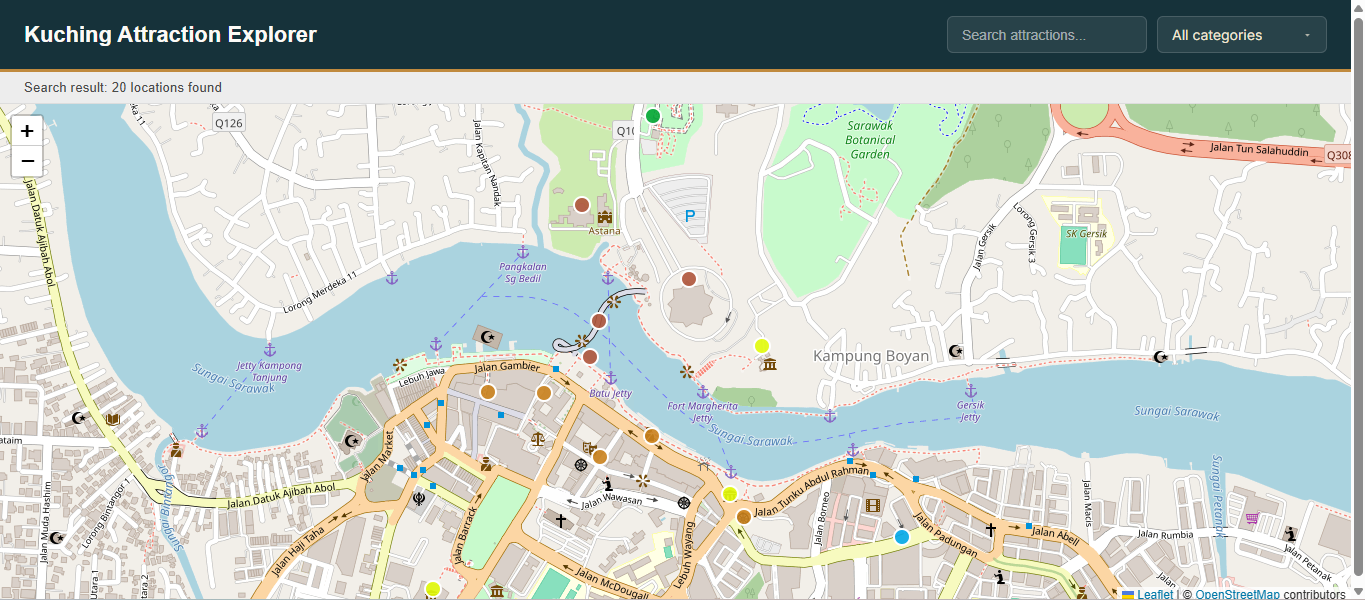
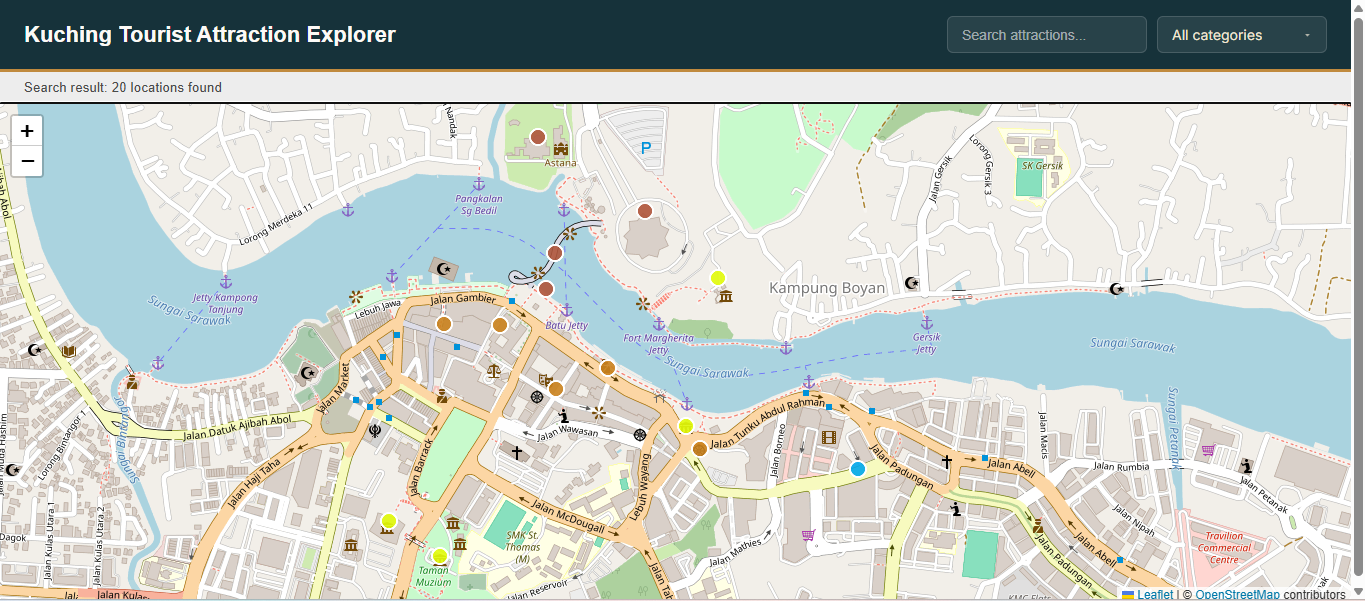
Update README description

diff --git a/README.md b/README.md
@@ -4,7 +4,7 @@ An interactive web map for exploring tourist attractions in Kuching, Sarawak. Us
 
 ## Features
 - Interactive map (Leaflet + OpenStreetMap) with attractions plotted as color-coded markers by category
-- Click a marker to view details: photo, name, category, description
+- Click a marker to view details: photo, name, category, description, and nearby attractions within 2km
 - Search attractions by name or description
 - Filter attractions by category
 
@@ -68,5 +68,5 @@ Update `API_BASE` in `script.js` to point to your local backend if testing local
 ![Map view](<image/map view.png>)
  
 #### Map view with location detail
-![Map view with location detail](<image/map view with detailed info.png>)
+![Map view with location detail](<image/map view with location detail.png>)
 